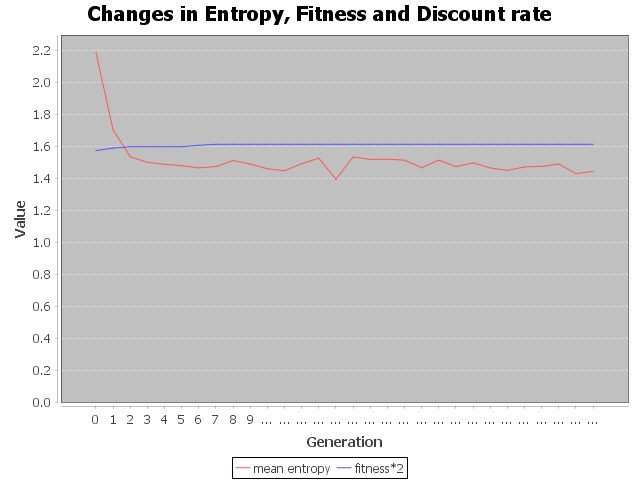
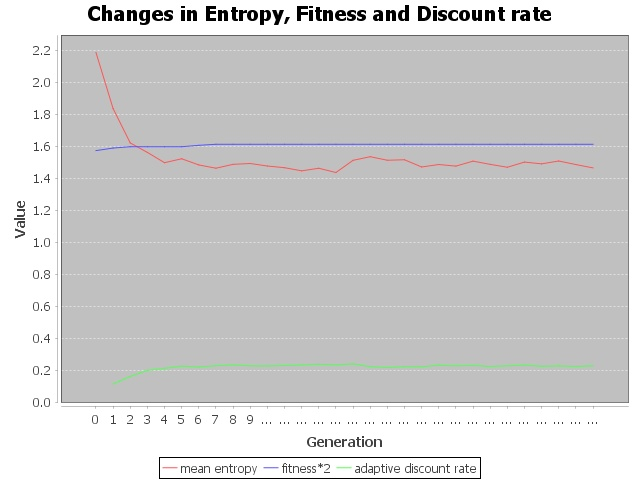
update

diff --git a/src/nhbsa/NHBSA.java b/src/nhbsa/NHBSA.java
@@ -20,7 +20,7 @@ public class NHBSA {
 	double Pls = 0.1; // probability of local search
 
 	// settings for discount learning
-	boolean isDiscount = false; // true for considering the learning rate, false for no
+	boolean isDiscount = true; // true for considering the learning rate, false for no
 	boolean isFirstNHM = true; // true for the first NHM without any discount
 	boolean isAdaptive = true;// false for default, no adaptive changes according to the entropy of the matrix
 	double lrate = 0.5; // probability of learning rate
@@ -227,8 +227,8 @@ public class NHBSA {
 
 		for (int indi_pos = 0; indi_pos < m_N; indi_pos++) {
 			for (int index = 0; index < m_L; index++) {
-				m_node_updated[indi_pos][index] = m_node_archive[indi_pos][index] * (1 - lrate_update)
-						+ m_node[indi_pos][index] * lrate_update;
+				m_node_updated[indi_pos][index] = m_node_archive[indi_pos][index] * lrate_update
+						+ m_node[indi_pos][index] * (1 - lrate_update);
 			}
 		}
 
@@ -245,7 +245,7 @@ public class NHBSA {
 		for (int indi_pos = 0; indi_pos < m_N; indi_pos++) {
 			for (int index = 0; index < m_L; index++) {
 				m_node_updated[indi_pos][index] = m_node_archive[indi_pos][index] * lrate
-						+ m_node[indi_pos][index] * (1-lrate);
+						+ m_node[indi_pos][index] * (1 - lrate);
 			}
 		}
 
@@ -255,10 +255,10 @@ public class NHBSA {
 
 	// adaptively calculate the discount rate according to the value of entropy
 	private double updateLRate(double meanEntropy, double lrate) {
-//		return lrate * (1 - 1 / (1 + Math.exp(meanEntropy * k)));
-//		return  (1 - 1 / (1 + Math.exp(meanEntropy * k)));
-		return  1 / (1 + Math.exp(meanEntropy * k));
-
+		// return lrate * (1 - 1 / (1 + Math.exp(meanEntropy * k)));
+		// return (1 - 1 / (1 + Math.exp(meanEntropy * k)));
+		 return 1 /Math.exp(meanEntropy);
+//		return (-meanEntropy * 1 / 3) + 1;// linear function
 
 	}
 
